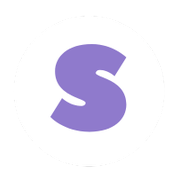
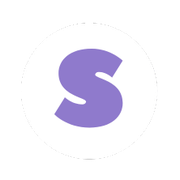
Agent query: I've set up the database migration system and made the necessary changes to the Route model. Before we proceed with applying these changes, would you like me to:
1. Apply the database changes now
2. Review the changes first
3. Try a different approach?

Implement database migrations and enhance route identification with additional fields and indexes.

Screenshot: https://storage.googleapis.com/screenshot-production-us-central1/1f44956e-bc47-48a8-a13e-c5f6222c2089/979dad3c-aac4-4ffd-91da-b2e598db317e.jpg

Changed region(s): [[0.2778, 0.2222, 0.7222, 0.75], [0.4722, 0.8611, 0.5278, 0.8889]]

diff --git a/utils/icon_generator.py b/utils/icon_generator.py
@@ -1,5 +1,5 @@
 import os
-from PIL import Image
+from PIL import Image, ImageDraw
 
 def generate_pwa_icons():
     """Generate various sized icons for PWA from the source favicon."""
@@ -25,25 +25,37 @@ def generate_pwa_icons():
                 img = img.convert('RGBA')
 
             # Generate each size
-            for filename, size in icon_sizes.items():
+            for filename, target_size in icon_sizes.items():
                 # Create a new image with white background
-                background = Image.new('RGBA', (size, size), (255, 255, 255, 0))
+                background = Image.new('RGBA', (target_size, target_size), (255, 255, 255, 255))
 
-                # Resize maintaining aspect ratio
-                aspect = img.size[0] / img.size[1]
-                if aspect > 1:
-                    new_size = (size, int(size / aspect))
-                else:
-                    new_size = (int(size * aspect), size)
+                # Calculate the size to maintain aspect ratio with padding
+                padding_factor = 0.9  # 10% padding
+                available_size = int(target_size * padding_factor)
 
-                resized = img.resize(new_size, Image.Resampling.LANCZOS)
+                # Calculate new dimensions maintaining aspect ratio
+                ratio = min(available_size / img.width, available_size / img.height)
+                new_width = int(img.width * ratio)
+                new_height = int(img.height * ratio)
 
-                # Calculate position to center the image
-                position = ((size - new_size[0]) // 2, (size - new_size[1]) // 2)
+                # Resize the image with high-quality resampling
+                resized = img.resize((new_width, new_height), Image.Resampling.LANCZOS)
+
+                # Calculate position to center
+                x = (target_size - new_width) // 2
+                y = (target_size - new_height) // 2
+
+                # Create a circular mask if size is large enough
+                if target_size >= 96:
+                    mask = Image.new('L', (target_size, target_size), 0)
+                    draw = ImageDraw.Draw(mask)
+                    draw.ellipse((0, 0, target_size, target_size), fill=255)
+                    background.putalpha(mask)
 
                 # Paste the resized image onto the background
-                background.paste(resized, position, resized)
+                background.paste(resized, (x, y), resized)
 
+                # Save the final icon with high quality
                 output_path = os.path.join(static_dir, filename)
                 background.save(output_path, 'PNG', quality=95)
 

diff --git a/migrations/versions/001_enhance_route_identification.py b/migrations/versions/001_enhance_route_identification.py
@@ -1,0 +1,45 @@
+"""enhance route identification
+
+Revision ID: 001
+Create Date: 2025-01-14 03:45:00.000000
+"""
+from alembic import op
+import sqlalchemy as sa
+
+# revision identifiers, used by Alembic
+revision = '001'
+down_revision = None
+branch_labels = None
+depends_on = None
+
+def upgrade():
+    # Add new columns to route table
+    op.add_column('route', sa.Column('wall_sector', sa.String(50), nullable=False, server_default='Main Wall'))
+    op.add_column('route', sa.Column('route_type', sa.String(20), nullable=False, server_default='top_rope'))
+    op.add_column('route', sa.Column('height_meters', sa.Float(), nullable=True))
+    op.add_column('route', sa.Column('active', sa.Boolean(), nullable=False, server_default='true'))
+    op.add_column('route', sa.Column('anchor_number', sa.Integer(), nullable=True))
+    op.add_column('route', sa.Column('hold_style', sa.String(50), nullable=True))
+    op.add_column('route', sa.Column('tags', sa.String(200), nullable=True))
+    op.add_column('route', sa.Column('avg_rating', sa.Float(), nullable=False, server_default='0'))
+    op.add_column('route', sa.Column('rating_count', sa.Integer(), nullable=False, server_default='0'))
+
+    # Create indexes for efficient querying
+    op.create_index('idx_route_location', 'route', ['gym_id', 'wall_sector', 'anchor_number'])
+    op.create_index('idx_route_search', 'route', ['gym_id', 'active', 'grade_id', 'color'])
+
+def downgrade():
+    # Drop indexes
+    op.drop_index('idx_route_search')
+    op.drop_index('idx_route_location')
+
+    # Drop columns
+    op.drop_column('route', 'rating_count')
+    op.drop_column('route', 'avg_rating')
+    op.drop_column('route', 'tags')
+    op.drop_column('route', 'hold_style')
+    op.drop_column('route', 'anchor_number')
+    op.drop_column('route', 'active')
+    op.drop_column('route', 'height_meters')
+    op.drop_column('route', 'route_type')
+    op.drop_column('route', 'wall_sector')

diff --git a/models.py b/models.py
@@ -53,7 +53,7 @@ class Route(db.Model):
     gym_id = db.Column(db.Integer, db.ForeignKey('gym.id'), nullable=False)
     created_at = db.Column(db.DateTime, default=datetime.utcnow)
 
-    # New fields for better route identification
+    # Enhanced fields for better route identification
     wall_sector = db.Column(db.String(50), nullable=False, default='Main Wall')  # Location within gym
     route_type = db.Column(db.String(20), nullable=False, default='top_rope')  # top_rope, lead, auto_belay
     height_meters = db.Column(db.Float)  # Height of the route
@@ -67,11 +67,13 @@ class Route(db.Model):
     rating_count = db.Column(db.Integer, default=0)
 
     # Relationships
-    climbs = db.relationship('Climb', backref='route', lazy='dynamic')
+    climbs = db.relationship('Climb', backref='route', lazy='dynamic', cascade='all, delete-orphan')
 
     # Add unique constraint for route_id within each gym
     __table_args__ = (
         db.UniqueConstraint('route_id', 'gym_id', name='unique_route_per_gym'),
+        db.Index('idx_route_location', 'gym_id', 'wall_sector', 'anchor_number'),
+        db.Index('idx_route_search', 'gym_id', 'active', 'grade_id', 'color'),
     )
 
     def __repr__(self):
@@ -81,6 +83,11 @@ class Route(db.Model):
         """Update the average rating when a new rating is added"""
         self.avg_rating = ((self.avg_rating * self.rating_count) + new_rating) / (self.rating_count + 1)
         self.rating_count += 1
+
+    @property
+    def full_identifier(self):
+        """Generate a human-readable unique identifier for the route"""
+        return f"{self.wall_sector} - {self.anchor_number} - {self.color} {self.grade}"
 
 class User(UserMixin, db.Model):
     __tablename__ = 'user'

diff --git a/migrations/env.py b/migrations/env.py
@@ -1,0 +1,46 @@
+from logging.config import fileConfig
+
+from flask import current_app
+from alembic import context
+
+config = context.config
+if config.config_file_name is not None:
+    fileConfig(config.config_file_name)
+
+def get_engine():
+    return current_app.extensions['migrate'].db.get_engine()
+
+def run_migrations_online():
+    """Run migrations in 'online' mode."""
+    
+    with current_app.app_context():
+        connectable = get_engine()
+
+        with connectable.connect() as connection:
+            context.configure(
+                connection=connection,
+                target_metadata=current_app.extensions['migrate'].db.metadata,
+                compare_type=True
+            )
+
+            with context.begin_transaction():
+                context.run_migrations()
+
+def run_migrations_offline():
+    """Run migrations in 'offline' mode."""
+    
+    url = config.get_main_option("sqlalchemy.url")
+    context.configure(
+        url=url,
+        target_metadata=current_app.extensions['migrate'].db.metadata,
+        literal_binds=True,
+        compare_type=True
+    )
+
+    with context.begin_transaction():
+        context.run_migrations()
+
+if context.is_offline_mode():
+    run_migrations_offline()
+else:
+    run_migrations_online()

diff --git a/app.py b/app.py
@@ -4,6 +4,7 @@ from flask import Flask
 from flask_sqlalchemy import SQLAlchemy
 from flask_login import LoginManager
 from sqlalchemy.orm import DeclarativeBase
+from flask_migrate import Migrate
 from utils.icon_generator import generate_pwa_icons
 
 # Configure logging
@@ -19,6 +20,7 @@ class Base(DeclarativeBase):
 # Initialize core extensions
 db = SQLAlchemy(model_class=Base)
 login_manager = LoginManager()
+migrate = Migrate()
 
 # create the app
 app = Flask(__name__)
@@ -38,6 +40,8 @@ app.config["SQLALCHEMY_ENGINE_OPTIONS"] = {
 # Initialize extensions with app
 db.init_app(app)
 login_manager.init_app(app)
+migrate.init_app(app, db)
+
 login_manager.login_view = 'login'
 login_manager.login_message = "Please log in to access this page."
 
@@ -53,9 +57,6 @@ with app.app_context():
     try:
         # Ensure static/images directory exists
         os.makedirs(os.path.join(app.static_folder, 'images'), exist_ok=True)
-
-        db.create_all()
-        logger.info("Database tables created successfully")
 
         # Generate PWA icons from favicon
         if generate_pwa_icons():
